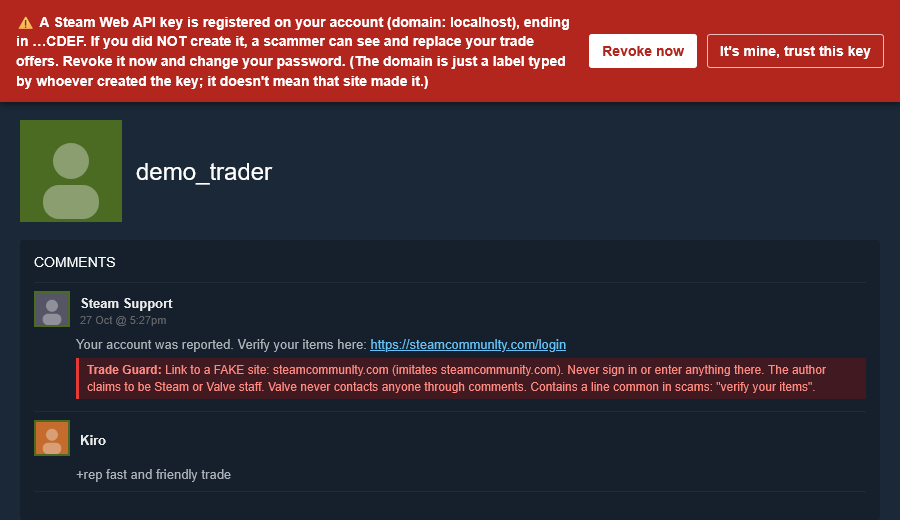
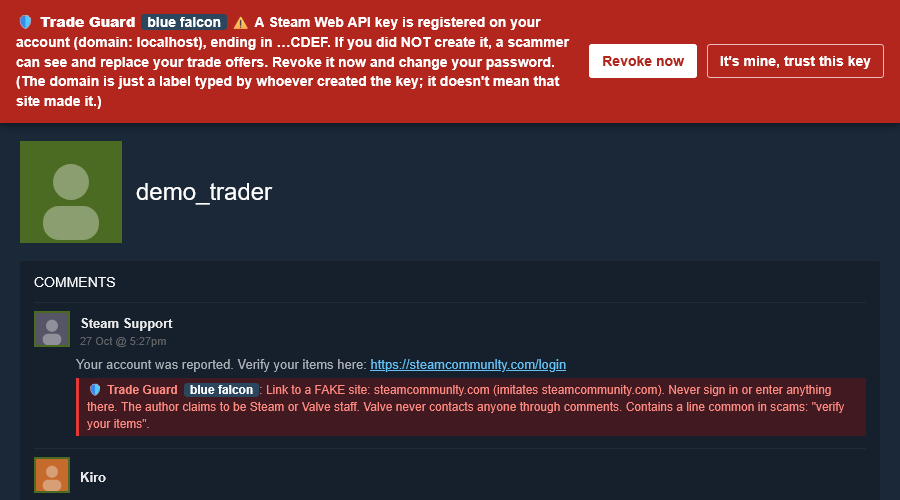
Document the new checks and refresh the screenshots

diff --git a/README.md b/README.md
@@ -13,7 +13,9 @@ A userscript that protects Steam traders from the scams that empty the most TF2 
 
 ![The API key banner, and a phishing comment flagged on a profile](docs/screenshots/api-key-and-comments.png)
 
-*The real script running on a simulated Steam page, with fictional accounts.*
+![A "Sign in through Steam" page for a lookalike of backpack.tf, flagged in red](docs/screenshots/sign-in.png)
+
+*The real script running on a simulated Steam page, with fictional accounts. "blue falcon" is the example secret phrase.*
 
 ## What it does
 
@@ -35,6 +37,21 @@ A userscript that protects Steam traders from the scams that empty the most TF2 
 - **Fake-named items:** checks every item you'd receive for a Name Tag or Description Tag and shows its real name. If the custom text claims something the item doesn't have (an unusual effect, Australium, Strange, a key…), the offer is flagged red. In a new offer this updates live as items are added.
 - **Phishing links and scam lines in offer messages:** links to lookalike domains of Steam or trading sites (`steamcommunlty.com`, `backpack-tf.com`, lookalike letters, punycode, `steamcommunity.com@other-site`) are flagged red, other links yellow, and common scam lines ("is this your item?", "vote for my team", "your account will be banned") yellow.
 - **Fake staff:** a partner whose name claims to be Steam or Valve staff ("Steam Support", "Valve Admin") is flagged red. Valve staff never trade.
+- **Bots with a trade hold:** every real trading bot uses the Steam Guard Mobile Authenticator, so its trades are never held. An account that calls itself a bot but whose items would be held is flagged red; any other partner without the authenticator gets a yellow note. (Only judged when your own side of the trade has no hold, since Steam's numbers can't tell the two apart otherwise.)
+- **Items from other games:** an item from another game named like a TF2 key, metal or hat (a Steam or CS2 item passed off as a Mann Co. Supply Crate Key) is flagged red; other cross-game items get a note.
+- **What the community wrote:** reads the partner's profile comments. Warnings from several different people ("scammer", "stole", "impostor", "-rep") raise the alert; praise like "+rep, not a scammer" doesn't count. A new account with its comments hidden gets a yellow note.
+- **Verified bots:** paste the SteamIDs from a trading site's official bot list (menu → *Verified bots*). From then on, any other account using one of those names is flagged red, even on first contact. Lists can be exported and imported as JSON.
+- **Before you confirm:** the trade window reminds you what the Steam app or email confirmation must show: the partner's name and account age.
+- **Report a scammer:** red panels get *Copy report*, *Steam* and *backpack.tf* buttons. Each copies a ready-to-paste report (scammer, who they copied, what was detected) and opens the place to send it. On Steam, the profile shows how to reach *Report Player → Attempted Trade Scam*. Trade Guard never submits anything itself.
+
+**Signing in through Steam** (`steamcommunity.com/openid/...`)
+- Shows which site you're signing in to. Known trading sites get a green bar, unknown sites a yellow one, and lookalike domains or a sign-in that sends you back to a different site a red one. It works before you sign in, on the password form itself.
+
+**Your secret phrase** (menu → *Set secret phrase*)
+- Shown on every Trade Guard panel, banner and sign-in bar. A fake panel written into an offer message, or a fake "Steam login" window drawn inside a phishing site, can't show it: if the phrase is missing, it isn't Trade Guard.
+
+**Security checkup** (menu → *Security checkup*)
+- Your API key status (with *Check now*), your secret phrase, your verified bots, what Trade Guard has stored, and a *Forget everything* button.
 
 **Comments** (profiles, groups, workshop)
 - Comments with lookalike links, scam lines or authors posing as Steam/Valve staff get a warning note. Normal comments are left alone. Forum threads are skipped, where "contact Steam Support" is ordinary advice.
@@ -43,7 +60,8 @@ A userscript that protects Steam traders from the scams that empty the most TF2 
 
 - **Only talks to `steamcommunity.com`.** It makes no request to any other domain, has no `@connect` entries and doesn't use `GM_xmlhttpRequest`.
 - Doesn't read cookies or your session ID, and never sends, accepts or modifies trade offers. It only adds warning panels.
-- Everything it remembers (friends, past trade partners, cached profiles) stays in Tampermonkey's local storage. Data about your account is kept per Steam account, so alts on the same browser never mix.
+- Everything it remembers (friends, past trade partners, cached profiles, your verified bots and secret phrase) stays in Tampermonkey's local storage. Data about your account is kept per Steam account, so alts on the same browser never mix. Of a partner's comments, only the scam warnings are kept. *Forget everything* in the security checkup deletes it all.
+- Its permissions, and what for: storage (`GM_getValue`, `GM_setValue`, `GM_listValues`, `GM_deleteValue`), styles (`GM_addStyle`), the Tampermonkey menu (`GM_registerMenuCommand`), and the clipboard (`GM_setClipboard`), which is only written when you click a report or export button.
 - Names from Steam are inserted as plain text, never as HTML.
 - **It fails loudly.** If a check can't run (Steam changed a page, a request failed, the friends list didn't load), you get a yellow warning instead of a green "No alerts".
 - Trusting your own API key requires typing its domain, so a phishing page can't talk you into a single click.
@@ -64,11 +82,14 @@ The script declares `@downloadURL none`, so Tampermonkey never updates it on its
 ## Limitations
 
 - It warns you, it can't stop you. Always check the items and the partner in the Steam Guard mobile confirmation.
-- Impostor detection only knows your friends and the partners it has seen while installed. A first contact with an impostor of a bot you've never traded with can't be detected by name.
+- Impostor detection only knows your friends, the partners it has seen while installed and your verified bots. A first contact with an impostor of a bot that isn't on your verified list can't be detected by name (a trade hold or a new account may still give it away).
+- The trade-hold check needs your own side of the trade to have no hold; otherwise it stays quiet rather than guess.
+- Comment warnings are a hint, not a verdict: friends joke, and scammers delete comments. Several different people warning is what raises the alert.
+- Steam has no direct link to its report form, so the *Steam* report button opens the profile and explains the three clicks. backpack.tf reports go through its issue tracker.
 - Item checks need Steam to describe each item: in a new offer they read the partner's public inventory, so a private inventory (or Steam's rate limit) means a yellow "couldn't check every item" instead.
 - Phishing detection knows Steam and the main TF2 trading sites. A phishing site that imitates something else only gets the generic "unknown link" warning.
 - Avatar matching uses Steam's image hash. A slightly edited copy of an avatar gets a new hash, so the name checks are what catch it.
-- Trade Guard's panels never appear *inside* an offer's message. Text there that looks like a Trade Guard verdict was written by the other person.
+- Trade Guard's panels never appear *inside* an offer's message. Text there that looks like a Trade Guard verdict was written by the other person, and it won't show your secret phrase.
 - It relies on Steam's page structure and profile XML. If Steam changes them, the affected checks show a warning instead of a false "all clear".
 
 ## Development

diff --git a/CHANGELOG.md b/CHANGELOG.md
@@ -3,6 +3,37 @@
 All notable changes to TF2 Trade Guard. The format follows [Keep a Changelog](https://keepachangelog.com/en/1.1.0/)
 and versions follow [Semantic Versioning](https://semver.org/).
 
+## [0.8.0] - 2026-10-29
+
+### Added
+
+- **Bots with a trade hold:** a partner that calls itself a bot but whose items would be held is flagged
+  red, since every real trading bot uses the Steam Guard Mobile Authenticator. Other partners without it
+  get a note.
+- **Items from other games** in what you receive: flagged red when they're named like a TF2 key, metal or
+  hat, noted otherwise. The trade window now reads the partner's inventory for every game in the offer.
+- **Profile comments:** scam warnings left on the partner's profile by several different people raise
+  the alert; a new account with hidden comments gets a note.
+- **Verified bots:** a list you build from trading sites' official bot pages (menu). Copies of those bots
+  are flagged red even on first contact. Import and export as JSON.
+- **Sign-in guard** on Steam's "Sign in through Steam" pages: which site you're signing in to, and a red
+  bar for lookalike domains or a sign-in that returns to a different site. Works while signed out.
+- **Secret phrase** (menu), shown on every panel, banner and sign-in bar, so fakes can't pass for them.
+- **Report buttons** on red panels: copy a ready-to-paste report and open Steam's report flow (with a
+  guide on the profile) or backpack.tf's issue tracker.
+- **Confirmation reminder** in the trade window: the name and account age the Steam confirmation must show.
+- **Security checkup** (menu): API key status, secret phrase, verified bots, stored data, and
+  *Forget everything*.
+
+### Fixed
+
+- Values stored as plain text (the new secret phrase) were read back as broken JSON and dropped.
+
+### Changed
+
+- New permissions: `GM_registerMenuCommand` (menu), `GM_setClipboard` (only on a button click),
+  `GM_listValues` and `GM_deleteValue` (*Forget everything*). Still no requests outside steamcommunity.com.
+
 ## [0.7.2] - 2026-10-29
 
 First public release.
@@ -34,4 +65,5 @@ First public release.
 Versions 0.7.0 and 0.7.1 were published briefly on the same day and withdrawn while the repository was
 being prepared. Releases are immutable, so their version numbers can't be reused.
 
+[0.8.0]: https://github.com/dns144444-del/tf2-trade-guard/releases/tag/v0.8.0
 [0.7.2]: https://github.com/dns144444-del/tf2-trade-guard/releases/tag/v0.7.2
